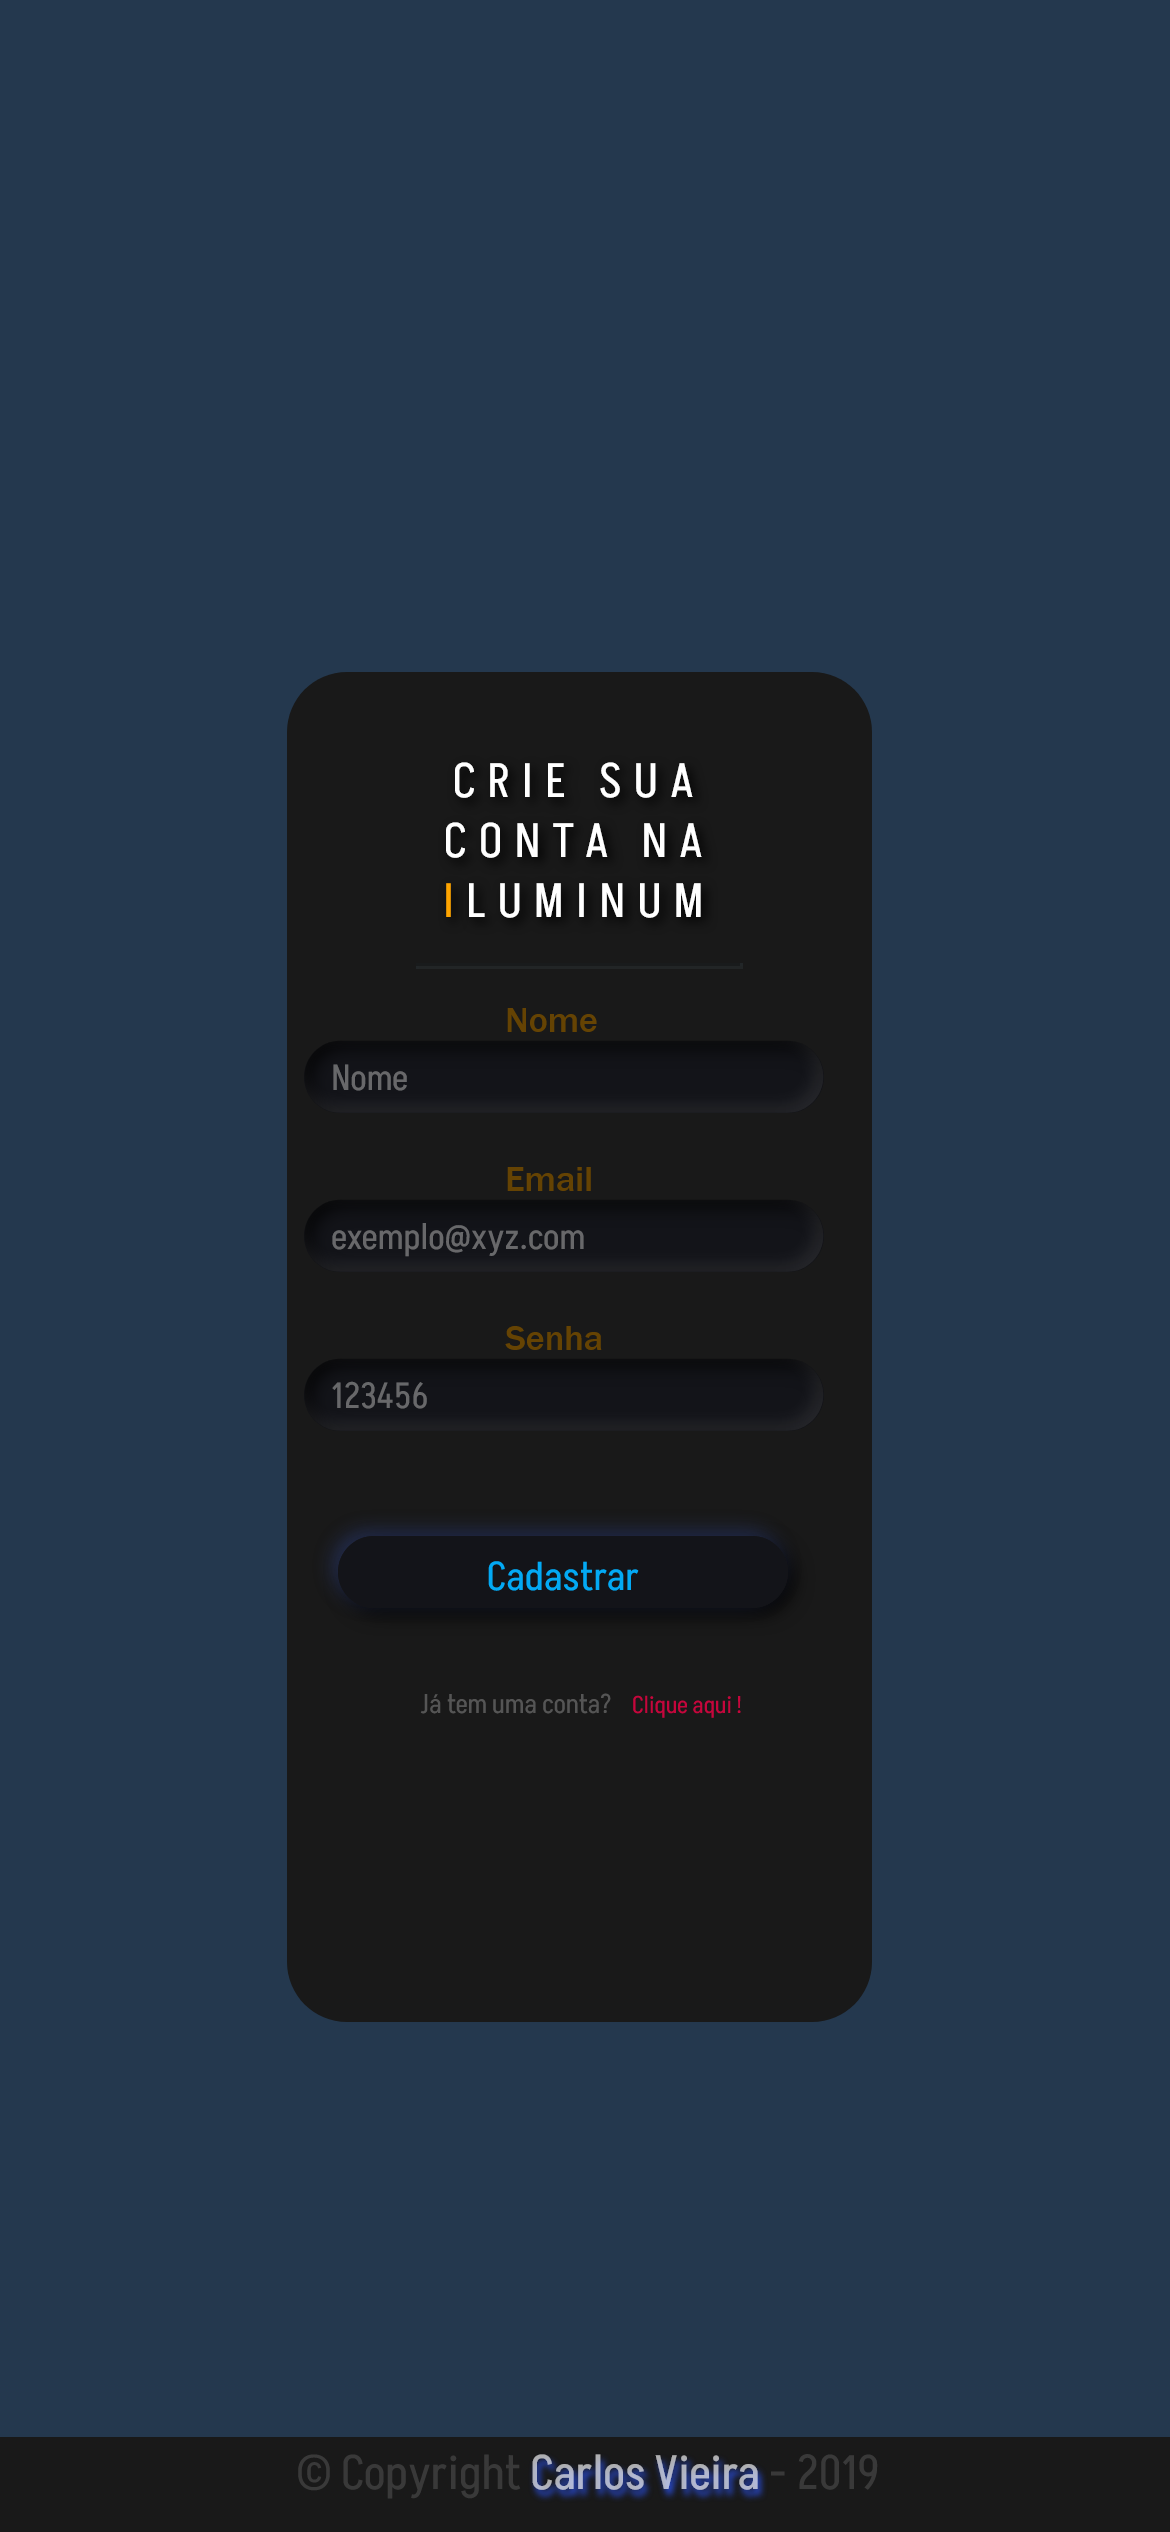
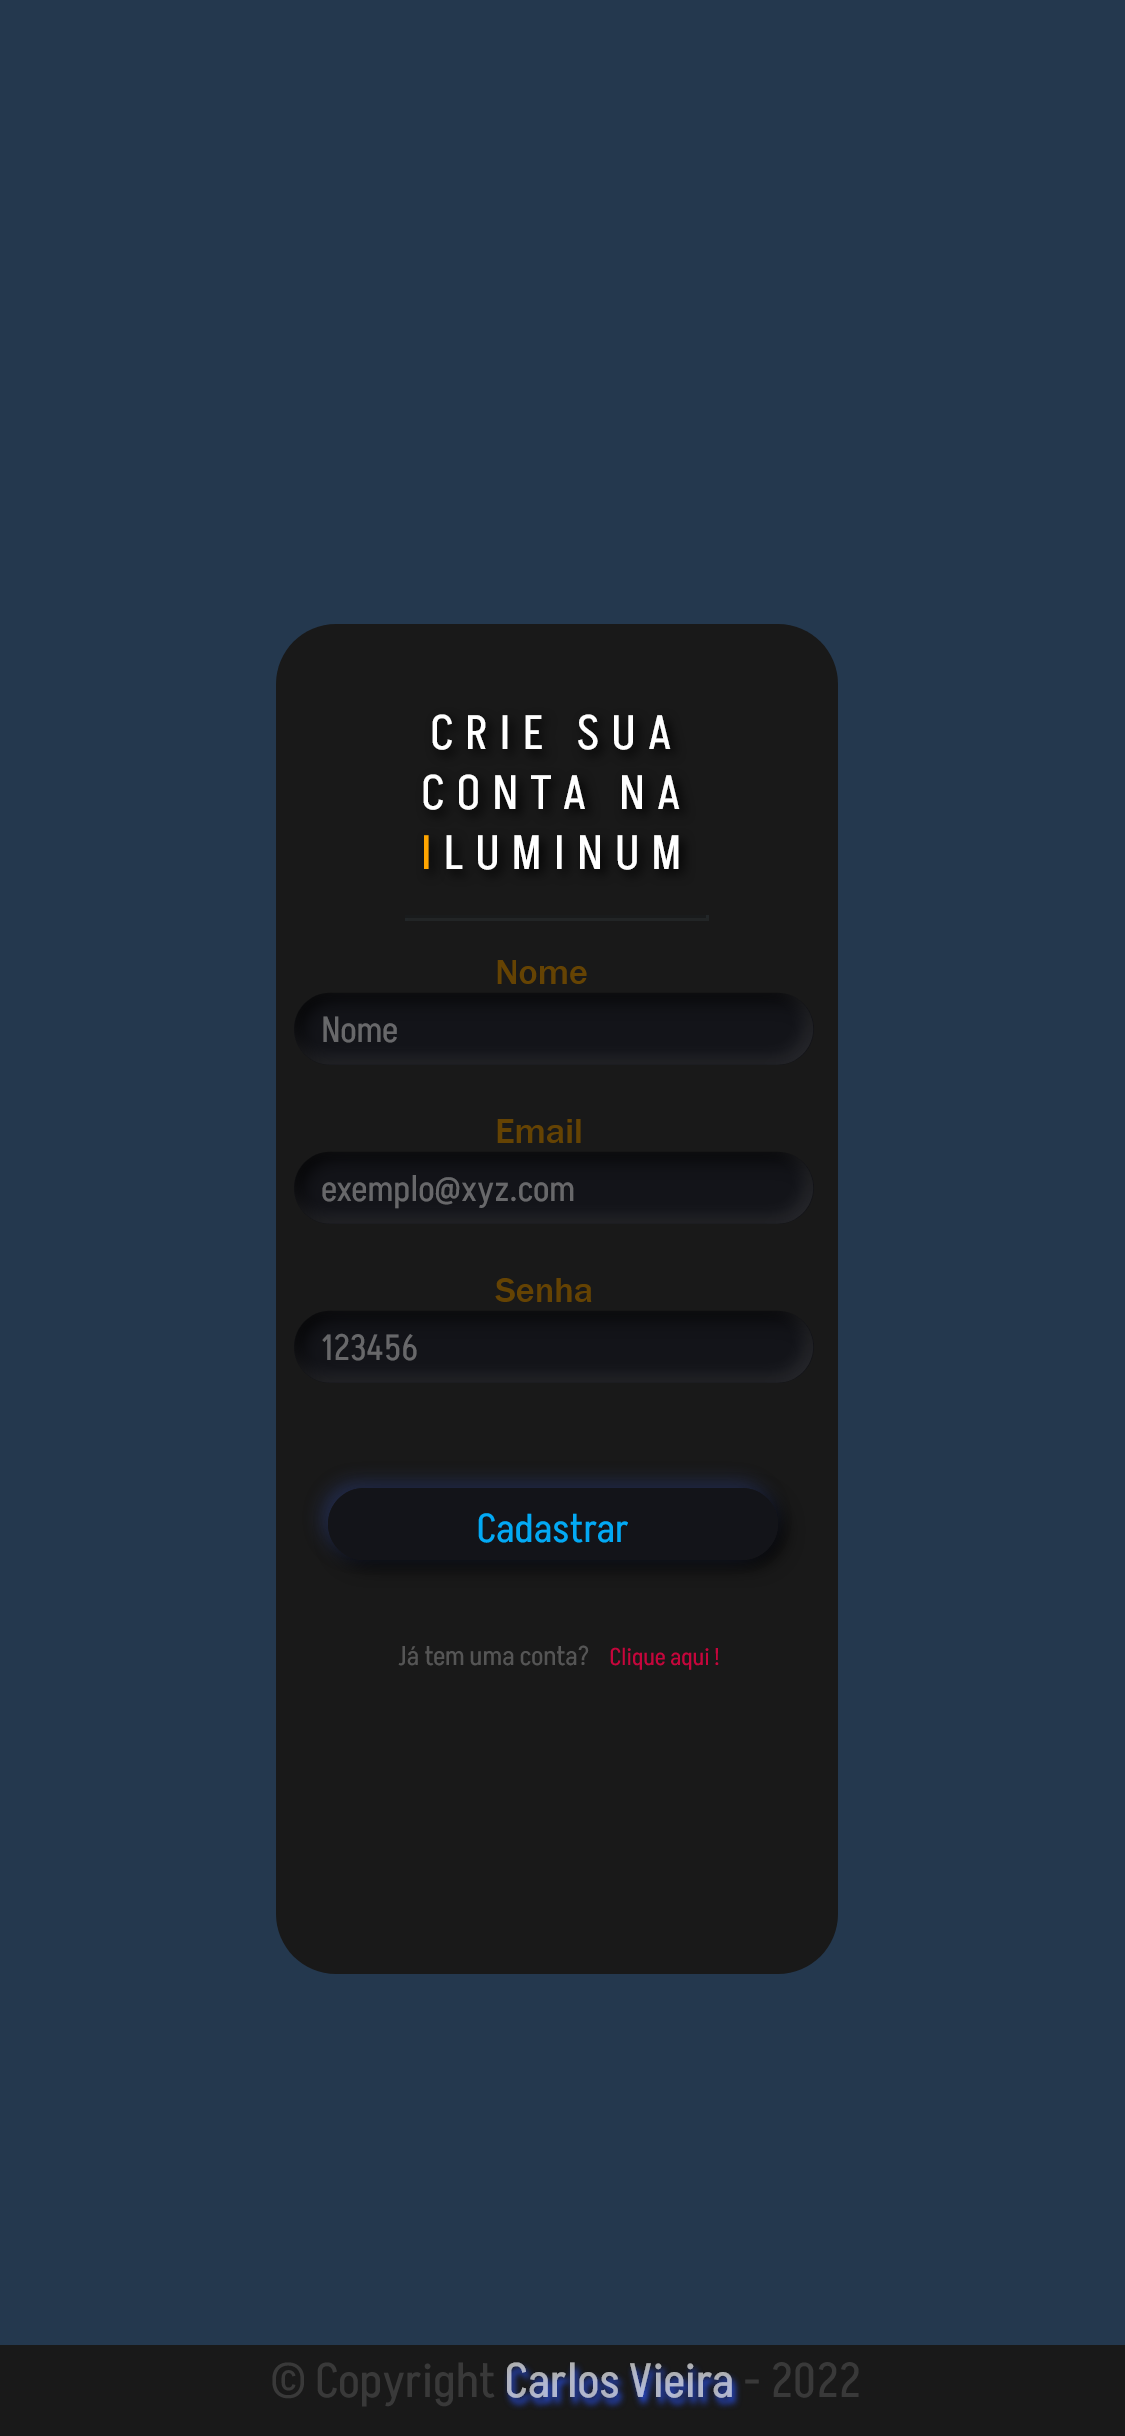
Footer e index atualizado

diff --git a/M2S2/exercicio-trello/ex-7-10/index.html b/M2S2/exercicio-trello/ex-7-10/index.html
@@ -85,7 +85,7 @@
 
 
 <footer>
-    <p class="copyright">© Copyright <span>Carlos Vieira</span> - 2019</p>
+    <p class="copyright">© Copyright <span>Carlos Vieira</span> - 2022</p>
 </footer>
 
 

diff --git a/README.md b/README.md
@@ -46,11 +46,20 @@
 
 &nbsp;
 
+## Link do Formulario
+
+[Formulário](https://cadform.netlify.app/)
+
+&nbsp;
+
 ## ✒ Autor 
 
 * **Carlos** -  [Desenvolvedor Fullstack Java ](https://www.linkedin.com/in/carlos-vico/)
 
 <hr>
+
+
+[Link do formulario on line](https://cadform.netlify.app/)
 
 &nbsp;
 ## 📄 Licença
